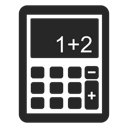
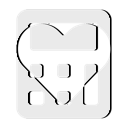
minor revisions.

diff --git a/index.html b/index.html
@@ -18,7 +18,12 @@
 <body>
 <div class='container'>
   <div class='col'>
-    <h4 class='site-title'><i class='fas fa-calculator'></i> Rule of Three</h4>
+    <div class='site-title'>
+      <span class='fa-stack'>
+        <i class='fa fa-calculator fa-stack-2x' style='color: #2f4f4f;'></i>
+        <i class='fa fa-heart fa-stack-1x' style='color: #aebac2;'></i>
+      </span> Rule of Three
+    </div>
   </div>
   <br />
   <br />

diff --git a/style.css b/style.css
@@ -12,6 +12,7 @@ body {
 }
 
 .site-title {
+  font-size: 28px;
   font-weight: bold;
   text-align: center;
   color: #2f4f4f;
